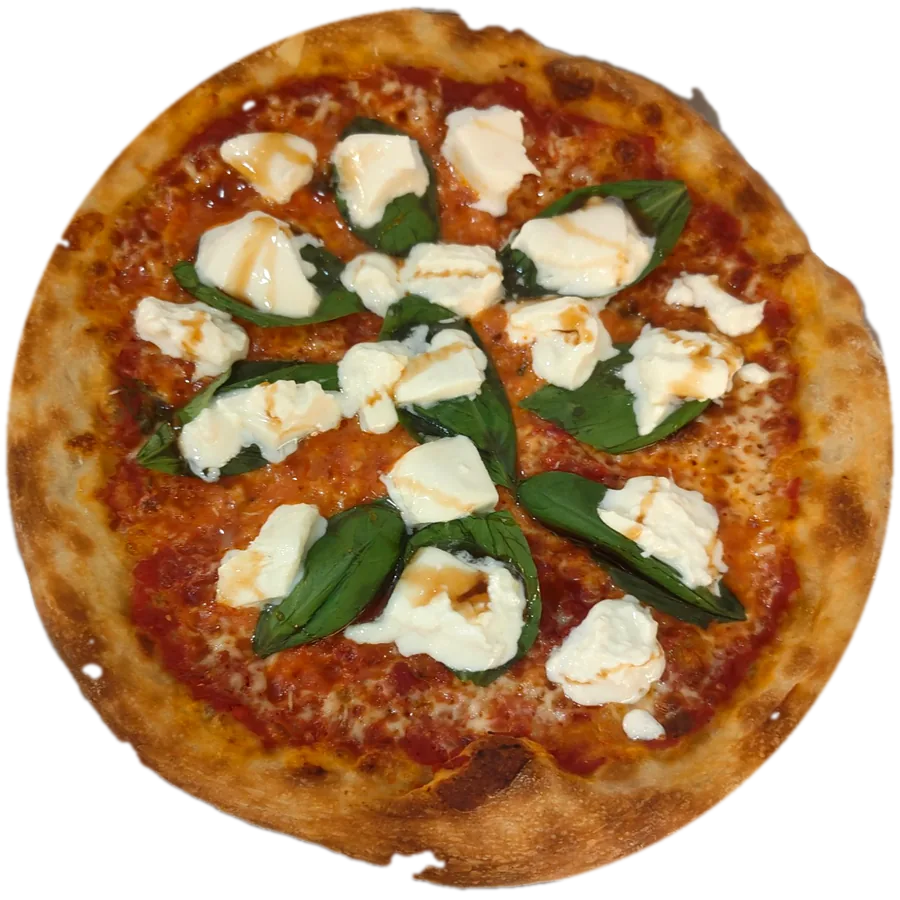
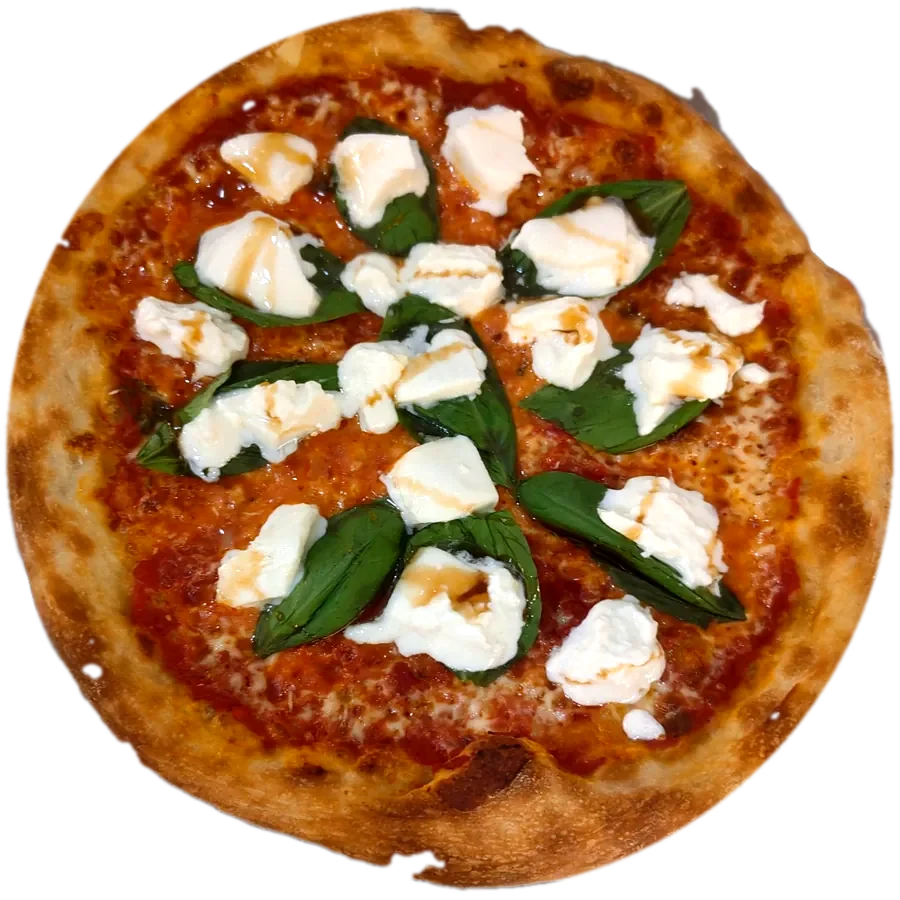
New Classic pie photo (top-down cutout); consistent lighting across all pizza photos
- Hero pizza replaced with the new photo, warped to a top-down view
- All 7 pizza cutouts color/exposure-matched using their crust as the reference
- Previous versions saved in images/originals/before-lighting

diff --git a/index.html b/index.html
@@ -15,7 +15,7 @@
 <meta name="twitter:card" content="summary_large_image">
 <link rel="icon" href="favicon.svg" type="image/svg+xml">
 <meta name="theme-color" content="#B5321F">
-<script type="application/ld+json">{"@context": "https://schema.org", "@type": "FoodEstablishment", "@id": "https://pizzaomakase.co.il/#business", "name": "Pizza Omakase", "url": "https://pizzaomakase.co.il/", "image": ["https://pizzaomakase.co.il/images/originals/classic.jpg", "https://pizzaomakase.co.il/images/pizza-vodka.webp", "https://pizzaomakase.co.il/images/pizza-spinach-artichoke.webp", "https://pizzaomakase.co.il/images/pizza-pear-hot-honey.webp", "https://pizzaomakase.co.il/images/pizza-mushroom.webp", "https://pizzaomakase.co.il/images/pizza-margherita-burrata.webp", "https://pizzaomakase.co.il/images/pizza-pesto-olive.webp"], "logo": "https://pizzaomakase.co.il/favicon.svg", "description": "Pizza Omakase is a chef's-choice New York–style pizza tasting experience in Israel: an appetizer, five unique pies, dessert and wine at one intimate table. Seats at scheduled evenings in Jaffa, private events, and pizza-making workshops.", "servesCuisine": ["Pizza", "New York-style pizza"], "areaServed": [{"@type": "City", "name": "Tel Aviv-Yafo"}, {"@type": "Country", "name": "Israel"}], "acceptsReservations": true, "priceRange": "₪150 per seat", "knowsLanguage": ["en", "he"], "hasMenu": {"@type": "Menu", "name": "Pizza Omakase tasting", "description": "Chef's choice: appetizer, five unique pies, dessert and wine."}}</script>
+<script type="application/ld+json">{"@context": "https://schema.org", "@type": "FoodEstablishment", "@id": "https://pizzaomakase.co.il/#business", "name": "Pizza Omakase", "url": "https://pizzaomakase.co.il/", "image": ["https://pizzaomakase.co.il/images/originals/classic.jpg", "https://pizzaomakase.co.il/images/pizza-vodka.webp?v=4", "https://pizzaomakase.co.il/images/pizza-spinach-artichoke.webp?v=4", "https://pizzaomakase.co.il/images/pizza-pear-hot-honey.webp?v=4", "https://pizzaomakase.co.il/images/pizza-mushroom.webp?v=4", "https://pizzaomakase.co.il/images/pizza-margherita-burrata.webp?v=4", "https://pizzaomakase.co.il/images/pizza-pesto-olive.webp?v=4"], "logo": "https://pizzaomakase.co.il/favicon.svg", "description": "Pizza Omakase is a chef's-choice New York–style pizza tasting experience in Israel: an appetizer, five unique pies, dessert and wine at one intimate table. Seats at scheduled evenings in Jaffa, private events, and pizza-making workshops.", "servesCuisine": ["Pizza", "New York-style pizza"], "areaServed": [{"@type": "City", "name": "Tel Aviv-Yafo"}, {"@type": "Country", "name": "Israel"}], "acceptsReservations": true, "priceRange": "₪150 per seat", "knowsLanguage": ["en", "he"], "hasMenu": {"@type": "Menu", "name": "Pizza Omakase tasting", "description": "Chef's choice: appetizer, five unique pies, dessert and wine."}}</script>
 <link rel="preconnect" href="https://fonts.googleapis.com">
 <link rel="preconnect" href="https://fonts.gstatic.com" crossorigin>
 <link rel="stylesheet" href="https://fonts.googleapis.com/css2?family=Bricolage+Grotesque:opsz,wght@12..96,500;12..96,700;12..96,800&family=Source+Serif+4:ital,opsz,wght@0,8..60,400;0,8..60,600;1,8..60,400&family=IBM+Plex+Mono:wght@400;500&display=swap">
@@ -245,7 +245,7 @@ footer .wrap a:hover{color:var(--ink)}
         </div>
       </div>
       <figure>
-        <img src="images/pizza-classic.webp?v=2" alt="The Classic pie" width="900" height="900">
+        <img src="images/pizza-classic.webp?v=4" alt="The Classic pie" width="900" height="900">
       </figure>
     </div>
   </div>
@@ -253,12 +253,12 @@ footer .wrap a:hover{color:var(--ink)}
   <section id="pies" class="alt">
     <div class="wrap">
       <div class="pies">
-        <figure><img src="images/pizza-vodka.webp?v=3" alt="The Vodka pie" loading="lazy" width="900" height="900"></figure>
-        <figure><img src="images/pizza-spinach-artichoke.webp" alt="The Spinach Artichoke pie" loading="lazy" width="900" height="900"></figure>
-        <figure><img src="images/pizza-pear-hot-honey.webp" alt="The Poached Pear and Hot Honey pie" loading="lazy" width="900" height="900"></figure>
-        <figure><img src="images/pizza-mushroom.webp" alt="Mushroom and red onion pie with chives" loading="lazy" width="900" height="900"></figure>
-        <figure><img src="images/pizza-margherita-burrata.webp" alt="Margherita with fresh cheese, basil and balsamic" loading="lazy" width="900" height="900"></figure>
-        <figure><img src="images/pizza-pesto-olive.webp" alt="Pesto pie with olives and shaved cheese" loading="lazy" width="900" height="900"></figure>
+        <figure><img src="images/pizza-vodka.webp?v=4" alt="The Vodka pie" loading="lazy" width="900" height="900"></figure>
+        <figure><img src="images/pizza-spinach-artichoke.webp?v=4" alt="The Spinach Artichoke pie" loading="lazy" width="900" height="900"></figure>
+        <figure><img src="images/pizza-pear-hot-honey.webp?v=4" alt="The Poached Pear and Hot Honey pie" loading="lazy" width="900" height="900"></figure>
+        <figure><img src="images/pizza-mushroom.webp?v=4" alt="Mushroom and red onion pie with chives" loading="lazy" width="900" height="900"></figure>
+        <figure><img src="images/pizza-margherita-burrata.webp?v=4" alt="Margherita with fresh cheese, basil and balsamic" loading="lazy" width="900" height="900"></figure>
+        <figure><img src="images/pizza-pesto-olive.webp?v=4" alt="Pesto pie with olives and shaved cheese" loading="lazy" width="900" height="900"></figure>
       </div>
     </div>
   </section>

diff --git a/request-received.html b/request-received.html
@@ -229,7 +229,7 @@ footer .wrap{display:flex;flex-wrap:wrap;justify-content:space-between;gap:12px;
         <div class="ctas"><a class="btn" href="./">Back to Pizza Omakase</a></div>
       </div>
       <figure>
-        <img src="images/pizza-classic.webp?v=2" alt="The Classic pie" width="900" height="900">
+        <img src="images/pizza-classic.webp?v=4" alt="The Classic pie" width="900" height="900">
       </figure>
     </div>
   </div>

diff --git a/thank-you.html b/thank-you.html
@@ -230,7 +230,7 @@ footer .wrap{display:flex;flex-wrap:wrap;justify-content:space-between;gap:12px;
         <div class="ctas"><a class="btn" href="./">Back to Pizza Omakase</a></div>
       </div>
       <figure>
-        <img src="images/pizza-classic.webp?v=2" alt="The Classic pie" width="900" height="900">
+        <img src="images/pizza-classic.webp?v=4" alt="The Classic pie" width="900" height="900">
       </figure>
     </div>
   </div>

diff --git a/private-events.html b/private-events.html
@@ -259,7 +259,7 @@ button.pc-day.on{background:#C9A45C;color:#14110D}
         <h1>Pizza Omakase<br><em>for your group.</em></h1>
       </div>
       <figure>
-        <img src="images/pizza-vodka.webp?v=3" alt="The Vodka pie" width="900" height="900">
+        <img src="images/pizza-vodka.webp?v=4" alt="The Vodka pie" width="900" height="900">
       </figure>
     </div>
   </div>
